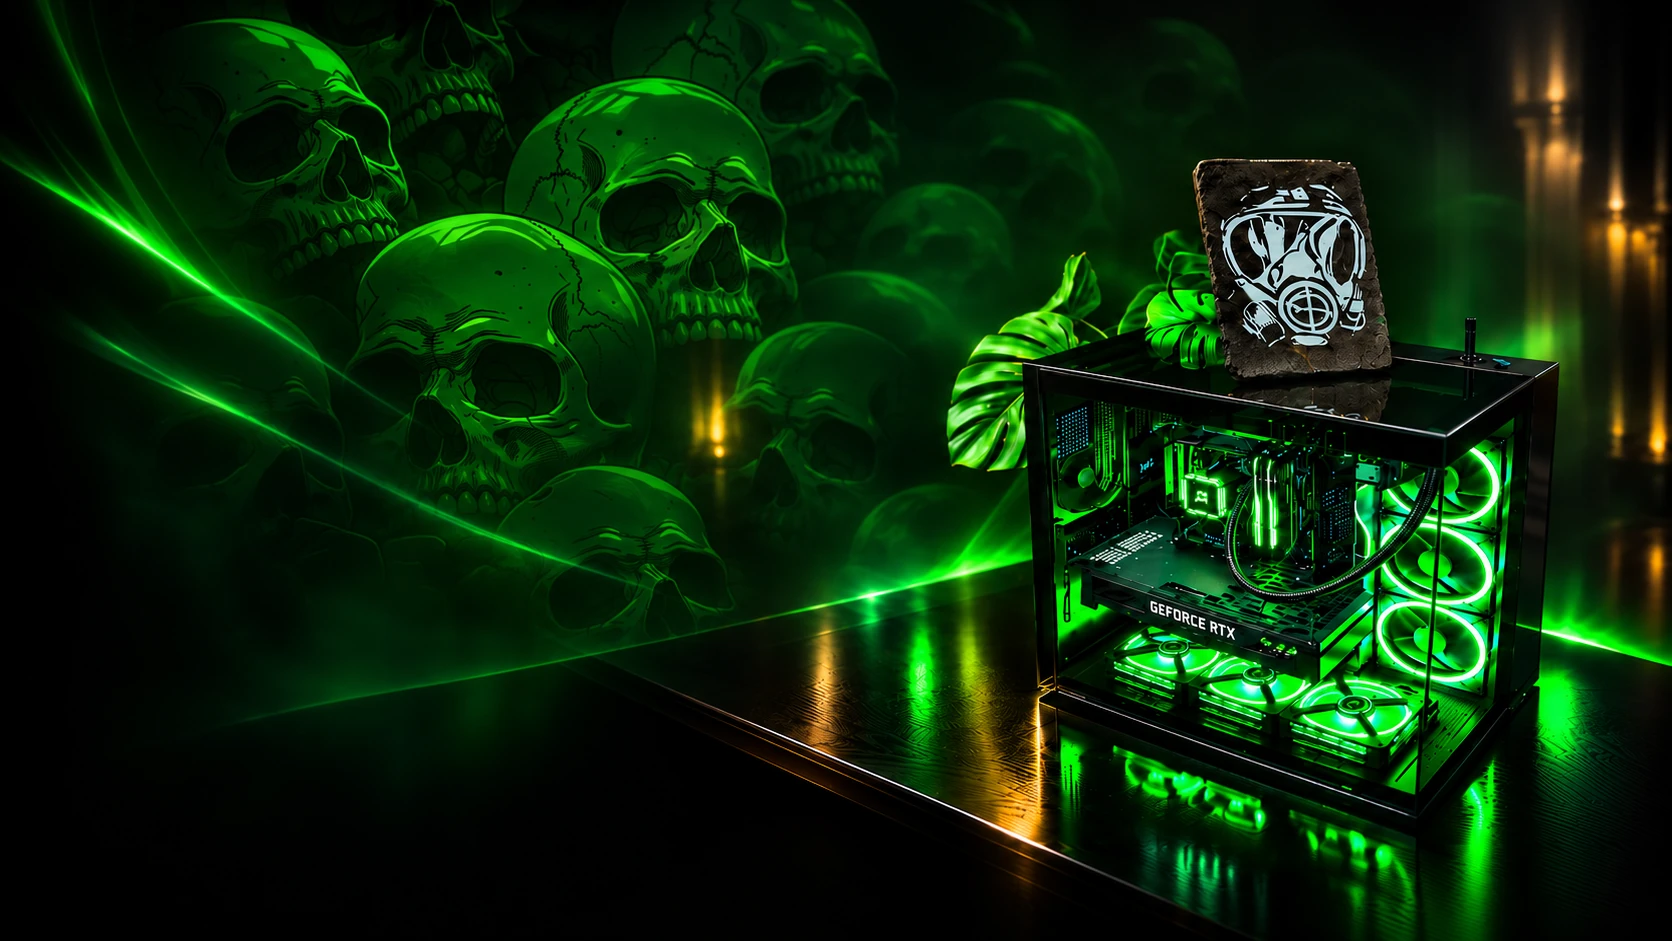
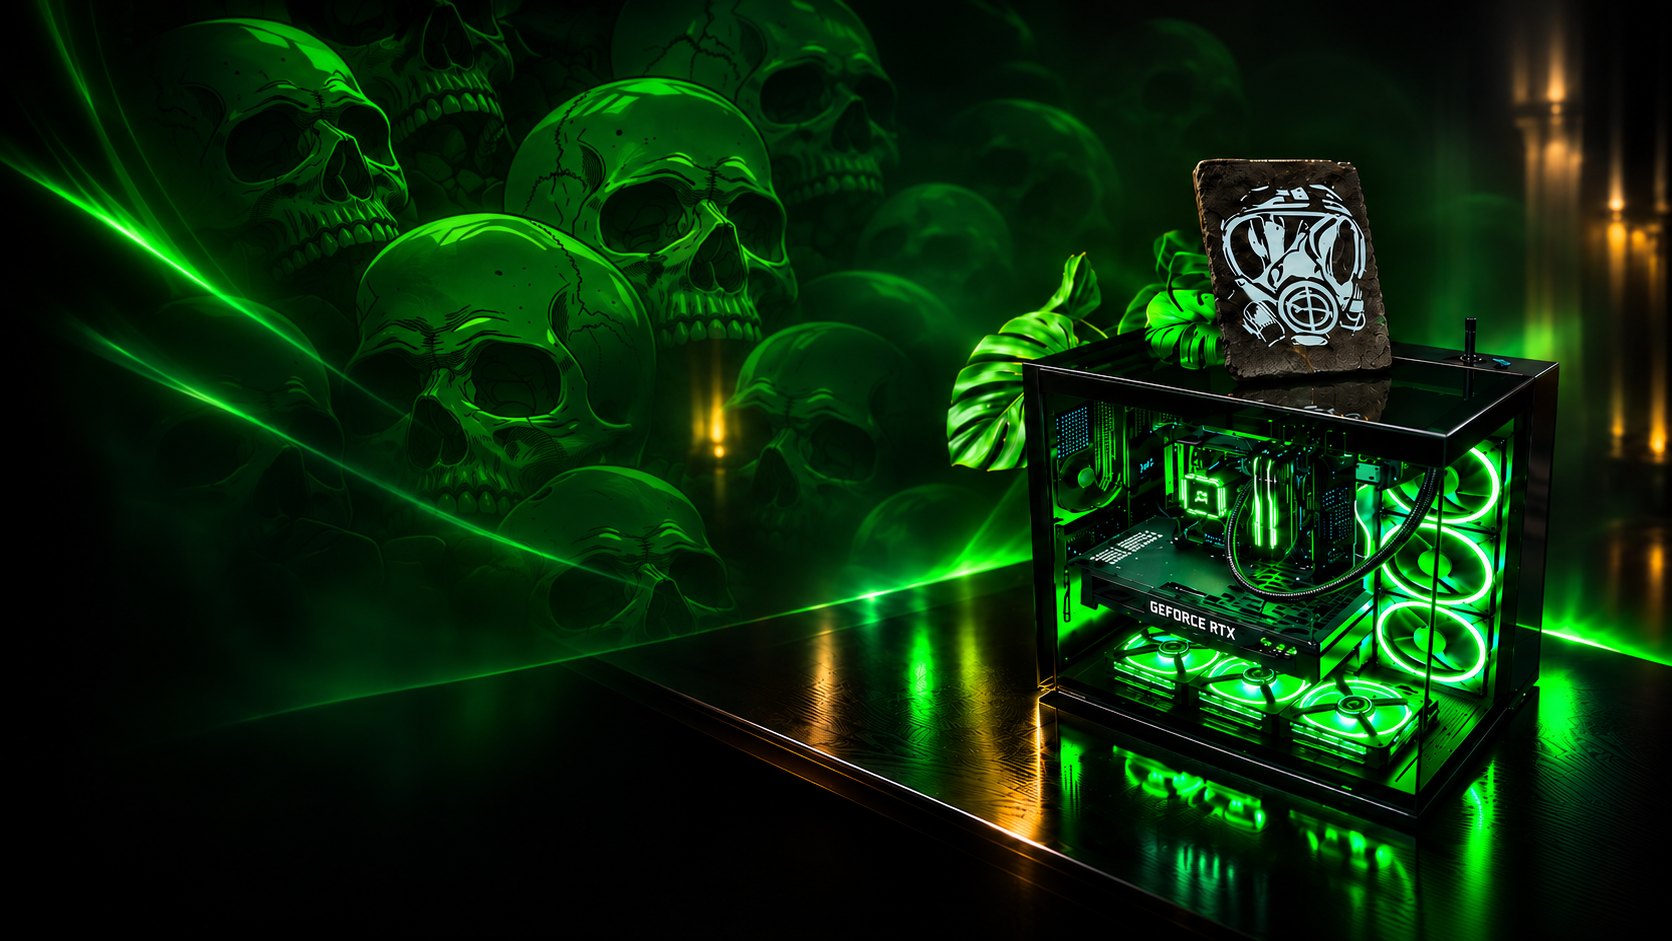
fix(hero): restore hero image sharpness
- assets/web/hero-bg-001.webp: lossless WebP, pixel-identical to the
  original PNG (was lossy q90 with 4:2:0 chroma, -17..21% edge sharpness)
- scripts/cinematic-hero-site.js: maxDprMobile 1 -> 2 so the Cinematic
  Hero canvas renders sharper on smartphones (adaptive quality unchanged)

diff --git a/scripts/cinematic-hero-site.js b/scripts/cinematic-hero-site.js
@@ -110,7 +110,7 @@
         img.insertAdjacentElement('afterend', canvas);       // unter der Bloom-Ebene, ueber dem Bild
         engine = new window.CinematicHeroEngine(frame, {
           assetBase: CONFIG.assetBase, mapExt: CONFIG.mapExt, imageSrc: CONFIG.imageSrc,
-          powerPreference: 'default', maxDprDesktop: 2, maxDprMobile: 1
+          powerPreference: 'default', maxDprDesktop: 2, maxDprMobile: 2
         });
         var timeout = new Promise(function (resolve) {
           setTimeout(function () { resolve('timeout'); }, CONFIG.initTimeoutMs);
